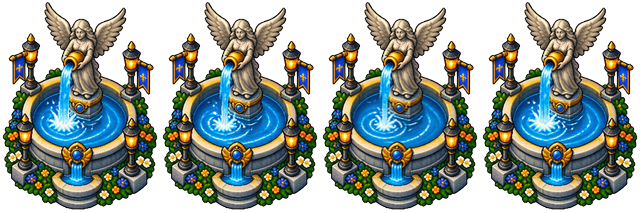
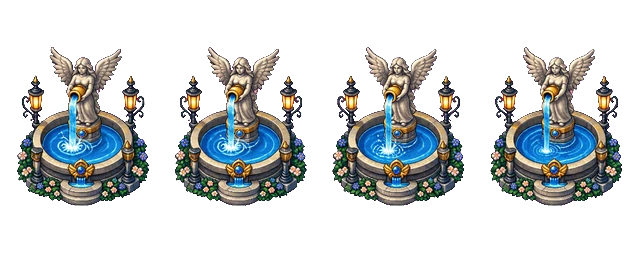
La fontaine a l'ange, et un essai qui ne mesurait plus rien
LA FONTAINE. Nouvelle planche, quatre images, cadre 160 sur 256 contre
160 sur 213 avant — le rapport passe de 1,33 a 1,60, donc la hauteur dessinee
de 453 a 544 pour la meme largeur.

LE BASSIN EST REMESURE, et ce n'est pas une corvee : il est une propriete du
DESSIN, et un dessin qui change change son bassin. Les chiffres sont lus sur
la planche, pas estimes — dans un cadre de 160 sur 256, la vasque va de
y=116 a y=190 et sa ligne la plus large fait 131 pixels de x=17 a x=148.
Ramene au dessin, cela donne rx=139, ry=79, dy=219, contre 158/72/172. Garder
les anciens aurait rate le bassin de pres de cinquante unites : on aurait
bute dans le vide et traverse la pierre, sans qu'aucune erreur ne se leve.

UN ESSAI QUI NE MESURAIT PLUS RIEN. `deux_portes_page` etait rouge AVANT
cette modification — verifie en la remisant, memes trois echecs. Son espion
lisait `drawImage` a cinq arguments, ou la destination vient aux rangs 1 a 4.
Mais les portails sont animes depuis qu'ils ont `cadres: 4`, donc dessines a
NEUF arguments, ou les rangs 1 a 4 designent le decoupage dans l'image source
et la destination passe en 5 a 8. L'essai comparait donc deux positions de
DECOUPE — identiques des que les deux portes sont sur la meme image du cycle
— et concluait qu'elles sont au meme endroit.

Il ne verifiait plus rien depuis que l'animation existe, et le seul signe
etait cet echec qu'on pouvait prendre pour un defaut du jeu. Il gere
[…]

diff --git a/nexus.js b/nexus.js
@@ -3708,7 +3708,7 @@
      * ce nombre et choisit l'image a l'horloge — il n'y a pas de compteur par
      * lieu a creer, a avancer et a oublier de remettre a zero. */
     { cle: 'fontaine', src: 'img/nexus/tiles/obj_fontaine.webp',
-      x: CENTRE.x, y: CENTRE.y, larg: 340, haut: 453, collision: 108, cadres: 4 },
+      x: CENTRE.x, y: CENTRE.y, larg: 340, haut: 544, collision: 108, cadres: 4 },
     /* ---- DEUX PORTES AU NORD, ET C'EST UN CHOIX ----
      *
      * La porte violette etait seule au bout du chemin : on marchait dedans
@@ -3903,13 +3903,24 @@
      la ou la pierre est — et bloquait sous le bassin, la ou il n'y a rien.
      Une ellipse mesuree sur le dessin colle. Les tirs s'en servent aussi :
      un pas et un projectile doivent buter sur la MEME pierre. */
-  /* ---- LE BASSIN DE LA NOUVELLE FONTAINE ----
-   * Mesures reprises sur le dessin anime : le bassin occupe la moitie basse
-   * de la planche, son centre est a 38 % de la hauteur au-dessus du point
-   * d'ancrage, et il est deux fois plus large que haut. Garder les chiffres de
-   * l'ancienne fontaine aurait bloque la ou il n'y a plus rien et laisse
-   * passer la ou il y a de la pierre. */
-  var COL_FONT = { rx: 158, ry: 72, dy: 172 };
+  /* ---- LE BASSIN SE REMESURE A CHAQUE FONTAINE ----
+   * Trois fontaines se sont succede ici, et chacune a demande ses propres
+   * chiffres. Ce n'est pas une corvee, c'est la consequence d'une regle : le
+   * bassin est une propriete du DESSIN, et un dessin qui change change son
+   * bassin. Reprendre les anciens chiffres bloque la ou il n'y a plus rien et
+   * laisse passer la ou il y a de la pierre — et rien ne le signale, parce
+   * qu'une collision fausse ne leve aucune erreur.
+   *
+   * Les chiffres ci-dessous sont LUS sur la planche de l'ange, pas estimes :
+   * dans un cadre de 160 sur 256, la vasque s'etend de y=116 a y=190 et sa
+   * ligne la plus large fait 131 pixels, de x=17 a x=148. Ramene au dessin
+   * (340 sur 544), cela donne un demi-axe horizontal de 139, un vertical de
+   * 79, et un centre a 219 unites AU-DESSUS du point d'ancrage — l'image se
+   * dessine vers le haut depuis ce point.
+   * L'ancienne planche faisait 160 sur 213, soit un rapport de 1,33 contre
+   * 1,60 aujourd'hui : reprendre ses trois nombres aurait rate le bassin de
+   * pres de cinquante unites en hauteur. */
+  var COL_FONT = { rx: 139, ry: 79, dy: 219 };
 
   /* ================== LA VIE, ET LE REPLI ==================
    *

diff --git a/deux_portes_page.test.js b/deux_portes_page.test.js
@@ -172,11 +172,27 @@ process.on('unhandledRejection', (e) => {
     };
     C.drawImage = function (im) {
       const u = (im && (im.currentSrc || im.src)) || '';
-      if (arguments.length >= 5) {
+      /* ---- LA DESTINATION N'EST PAS AU MEME RANG SELON LA FORME ----
+       * `drawImage` a deux formes. A cinq arguments, la destination vient en
+       * 1 a 4. A NEUF, les rangs 1 a 4 designent le decoupage dans l'image
+       * SOURCE, et la destination passe en 5 a 8.
+       * Les portails sont animes depuis qu'ils ont `cadres: 4`, donc dessines
+       * a neuf arguments — et cet espion lisait leur decoupage en croyant lire
+       * leur place a l'ecran. Les deux portes rendaient alors la meme valeur
+       * quand elles etaient sur la meme image du cycle, et l'essai concluait
+       * qu'elles sont au meme endroit. Il ne mesurait plus rien depuis que
+       * l'animation existe, sans jamais le dire autrement que par cet echec. */
+      let dx = null, dy = null, dw = 0, dh = 0;
+      if (arguments.length >= 9) {
+        dx = arguments[5]; dy = arguments[6]; dw = arguments[7]; dh = arguments[8];
+      } else if (arguments.length >= 5) {
+        dx = arguments[1]; dy = arguments[2]; dw = arguments[3]; dh = arguments[4];
+      }
+      if (dx !== null) {
         if (u.indexOf('obj_portal_pvp.webp') >= 0) {
-          window.__rouge = { x: arguments[1] + arguments[3] / 2, y: arguments[2] + arguments[4] };
+          window.__rouge = { x: dx + dw / 2, y: dy + dh };
         } else if (u.indexOf('obj_portal.webp') >= 0) {
-          window.__verte = { x: arguments[1] + arguments[3] / 2, y: arguments[2] + arguments[4] };
+          window.__verte = { x: dx + dw / 2, y: dy + dh };
         }
       }
       if (arguments.length >= 9 && arguments[3] === 256 && arguments[4] === 256

diff --git a/nexus.html b/nexus.html
@@ -2300,7 +2300,7 @@ body{ background:url('img/a77f9f5ed053.jpg') center center/cover no-repeat fixed
      racine ; c'est le seul endroit d'ou elle peut couvrir tout le reste. -->
 <div id="nxFiche"></div>
 
-<script src="nexus.js?v=52906b12" defer></script>
+<script src="nexus.js?v=844cace1" defer></script>
 <script>window.addEventListener('load',function(){setTimeout(function(){var p=document.getElementById('preloader');if(p){p.classList.add('done');setTimeout(function(){p.style.display='none';},700);}},450);});setTimeout(function(){var p=document.getElementById('preloader');if(p&&!p.classList.contains('done')){p.classList.add('done');}},9000);</script>
 
 <script>
